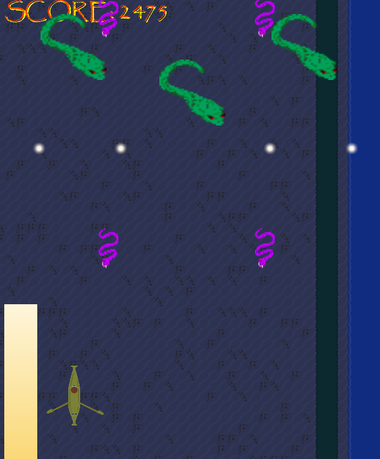
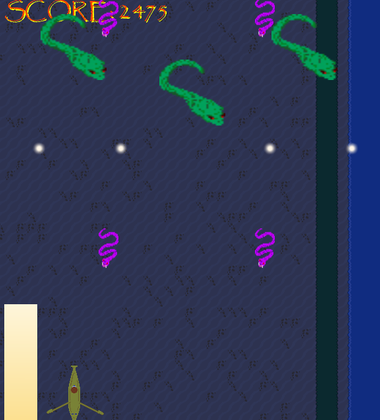
Home page mostly finalized in design, confirmed with client

diff --git a/index.html b/index.html
@@ -21,42 +21,53 @@
         </header>
 
         <main>
-            <section class="raise-the-rays-background container-fluid intro floatIn">
+            <section class="container-fluid intro raise-the-rays-bkg">
                 <div class="shadow-box-content">
-                    <h1>Hello! I am Annora Streible</h1>
-                    <h4>Student at Rochester Institute of Technology</h4>
-                    <hr class="fade-line"/>
-
-                    <p>
-                        My interests lie in cross-cultural and interactive design, and I hope to pursue 
-                        it as a career at an international company in the future
-                    </p>
+                    <h1>Hi, I am Annora Streible</h1>
+                    <hr class="fade-line-white"/>
+                    <p class="subheader">Student at Rochester Institute of Technology</p>
                 </div>
             </section>
 
-            <section class="container-fluid floatIn">
-                <h2>Featured Projects</h2>
+            <section class="container-fluid sub-container">
+                <img class="rounded-img" src="./assets/images/profileImage.png" alt="Profile picture">
+                <div>
+                    <p>
+                        Hello! My name is Annora Streible and I'm a third year student at Rochester Institute
+                        of Technology. My interests lie in cross-cultural and interactive design, and I hope to pursue 
+                        it as a career at an international company in the future.
+                    </p>
+                    <a class="btn" role="button" href="./about-me">Learn more</a>
+                </div>
+            </section>
 
-                <div class="d-flex center-items">
+            <section class="container-fluid featured">
+                <h2>Featured Projects</h2><br>
+
+                <div class="d-flex center-items floatIn">
                     <feature-box>
                         <span slot="title">Frag: New Heights</span>
-                        <span slot="details">
+                        <img slot="preview-img" src="./assets/images/FragNewHeights/PrintAndPlay.png" alt="A portion of the print and play files of the game, including some game cards and tokens" width="350">
+                        <span slot="details" class="content">
                             <p>
                                 In a team of 2, I worked alongside my partner to design and develop an expansion pack
                                 for the pre-existing game Frag by Steve Jackson Games
                             </p>
-                            <button><a href="./projects#Frag_NewHeights">Learn More</a></button>
+                            <hr class="fade-line-black">
+                            <a class="btn" href="./projects#Frag_NewHeights">Learn More</a>
                         </span>
                     </feature-box>
 
                     <feature-box>
-                        <span slot="title">Raise the Rays</span>
-                        <span slot="details">
+                        <span slot="title">Raise The Rays</span>
+                        <img slot="preview-img" src="./assets/images/toRaiseTheRays/ToRaiseTheRaysExample3.png" alt="To Raise the Rays combat image" width="350">
+                        <span class="content" slot="details">
                             <p>
                                 In a team of 4, I worked as the lead UI designer to design and develop a top-down
                                 shooter in Monogame using C# with a focus on visual design.
                             </p>
-                            <button><a href="./projects#RaiseTheRays">Learn more</a></button>
+                            <hr class="fade-line-black">
+                            <a class="btn" href="./projects#RaiseTheRays">Learn more</a>
                         </span>
                     </feature-box>
                 </div>

diff --git a/css/styles.css b/css/styles.css
@@ -5,8 +5,8 @@ body {
     display: flex;
     flex-direction: column;
     min-height: 100vh;
-    background-color: black;
-    color: lightgray;
+    background-color: lightgray;
+    color: black;
     font-family: 'Poppins';
 }
 
@@ -30,23 +30,14 @@ footer {
     }
 }
 
-/** Create a padded container with centered content */
-.container-fluid {
-    padding: 1em;
-    text-align: center;
-}
-
-.raise-the-rays-background {
-    background-image: url('../assets/images/toRaiseTheRays/ToRaiseTheRaysExample3.png');
+.raise-the-rays-bkg {
+    background-image: url('../assets/images/toRaiseTheRays/Title_Day.png');
     background-size: cover;
+    background-position: center center;
     background-attachment: fixed;
-    height: 500px;
-    display: flex;
-    justify-content: center;
-    align-items: center;
 }
 
-.raise-the-rays-background::after {
+.raise-the-rays-bkg::after {
     content: '';
     position: absolute;
     top: 0;
@@ -54,33 +45,53 @@ footer {
     right: 0;
     left: 0;
     z-index: 1;
-    background-color: rgba(0, 0, 0, 0.5);
+    background-image: linear-gradient(to bottom, rgb(48, 48, 48), black);
+    opacity: 0.8;
 }
 
-.shadow-box-content {
+/** Create a padded container with centered content */
+.container-fluid {
+    padding: 1em;
+    text-align: center;
+}
+
+.intro {
+    height: 500px;
+    display: flex;
+    justify-content: center;
+    align-items: center;
     position: relative;
+    color: white;
     z-index: 2;
 }
 
 .center-items {
     justify-content: center;
-    gap: 15px;
+    gap: 2em;
 }
 
 /** Style heading tags */
 h1 {
     text-align: center;
     font-weight: bold;
+    font-size: 48px;
 }
 
 h2 {
     text-align: center;
-
+    font-size: 36px;
+    font-weight: bold;
+    margin-top: 1em;
 }
 
-h4 {
+.subheader {
+    font-size: 24px;
     text-align: center;
     font-weight: semi-bold;
+}
+
+.content p {
+    font-size: 14px;
 }
 
 /** Sets text aligned to the center */
@@ -98,11 +109,18 @@ h4 {
     }
 
 /** Create a tapered horizontal line */
-.fade-line {
+.fade-line-white {
     border: 0;
     height: 2px;
     opacity: 1;
     background-image: linear-gradient(to right, transparent, rgba(255, 255, 255, 0.75), transparent);
+}
+
+.fade-line-black {
+    border: 0;
+    height: 2px;
+    opacity: 1;
+    background-image: linear-gradient(to right, transparent, rgba(0, 0, 0, 0.75), transparent);
 }
 
 /** Styles the socials icons */
@@ -121,8 +139,44 @@ path {
     animation: floatIn 0.8s ease-out forwards;
 }
 
-.intro {
-    padding: 50px 25px;
-    justify-content: center;
+.rounded-img {
+    width: 200px;
+    clip-path: circle();
+}
+
+.sub-container {
+    display: flex;
+    flex-direction: row;
+    padding: 3em 4em;
+    gap: 2em;
+    display: flex;
     align-items: center;
+    text-align: left !important;
+    background-color: darkgray;
+    z-index: 2;
+}
+
+.shadow-box-content {
+    z-index: 2;
+}
+
+.btn {
+    background-color: darkred;
+    color: lightgray;
+    box-shadow: 0 4px 12px rgba(0,0,0,0.25);
+    margin-bottom: 15px;
+}
+    .btn:hover {
+        background-color: rgb(106, 0, 0);
+        color: white;
+    }
+
+[slot="preview-img"] {
+    border-radius: 0 0 5px 5px;
+}
+
+@media (max-width: 768px) {
+    .sub-container{ flex-direction: column;}
+    .center-items{flex-direction: column;}
+    [slot="preview-img"] { width: 340px; }
 }

diff --git a/web-components/feature-box/feature-box.css b/web-components/feature-box/feature-box.css
@@ -1,33 +1,32 @@
 /** Private styles for the feature-box element */
 
-.feature {
-    animation: floatUp 0.8s ease-out forwards; 
-    border: 2px black solid;
-    border-radius: 4px;
+.feature { 
+    background-color: darkgray;
+    border-radius: 5px;
     box-shadow: inset;
     width: 350px;
     height: fit-content;
     justify-content: center;
+    transition: transform 0.2s ease-in-out, box-shadow 0.2s ease-in-out;
 }
     .feature:hover {
-        transform: translateY(-4px);
+        transform: scale(1.03);
         box-shadow: 0 4px 12px rgba(0,0,0,0.25);
         transition: all 0.2s ease-in-out;
     }
 
-.title {
-    display: flex;
-    justify-content: space-between;
-    align-items: center;
-    justify-content: center;
-    padding: 10px;
-    height: 20px;
-}
-
 .content {
     padding: 10px 25px;
+    padding-bottom: 0;
+}
+
+h3 {
+    text-align: center;
+    font-size: 24px;
+    margin: 0;
+    padding-top: 15px;
 }
 
 @media(max-width: 450px) {
-    .feature { width: 275px; }
+    .feature { width: 340px; }
 }

diff --git a/web-components/foot-note/foot-note.js b/web-components/foot-note/foot-note.js
@@ -18,14 +18,10 @@ class FootNote extends HTMLElement {
         this.innerHTML = `
             <link rel="stylesheet" href="./web-components/foot-note/foot-note.css">
             <div class="footnotes">
-                <div class="title">
-                    <h2>Annora Streible</h2>
-                </div>
-                <div class="links">
-                    <a class="social" href="https://www.linkedin.com/in/annora-streible/" target="_blank" rel="noopener noreferrer" title="LinkedIn">
-                        <i class="fa-brands fa-linkedin fa-3x"></i>
-                    </a>
-                </div>
+                <h2>Annora Streible</h2>
+                <a class="social" href="https://www.linkedin.com/in/annora-streible/" target="_blank" rel="noopener noreferrer" title="LinkedIn">
+                    <i class="fa-brands fa-linkedin fa-3x"></i>
+                </a>
             </div>
         `;
     }

diff --git a/web-components/feature-box/feature-box.js b/web-components/feature-box/feature-box.js
@@ -14,14 +14,9 @@ class FeatureBox extends HTMLElement {
             <link rel="stylesheet" href="./web-components/feature-box/feature-box.css">
 
             <div class="feature">
-                <div class="title">
-                    <h3><slot name="title"></slot></h3>
-                </div>
-                
-                <div class="content">
-                    <slot name="preview-img"></slot>
-                    <p><slot name="details"></slot></p>
-                </div>
+                <h3><slot name="title"></slot></h3>
+                <div class="content"><slot name="details"></slot></div>
+                <slot name="preview-img"></slot>
             </div>
         `;
     }

diff --git a/web-components/nav-bar/nav-bar.css b/web-components/nav-bar/nav-bar.css
@@ -2,10 +2,12 @@
 
 /** Style the overall navigation bar */
 .custom-nav {
-    background-color: rgb(35, 10, 10);
+    background-color: black;
     align-items: center;
     border-bottom: 2px black solid;
     box-shadow: 0 4px 12px rgba(0,0,0,0.25);
+    padding: 5px 1em;
+    z-index: 2;
 }
 
 /** Sends all nav-links to the end of the navbar */
@@ -45,9 +47,6 @@
     font-weight: bold;
     transition: color 0.2s ease;
 }
-    .navbar-brand:hover, .navbar-brand:active, .navbar-brand:focus {
-        color: red;
-    }
 
 /** Changes nav-bar display settings for mobile screen */
 @media(max-width: 990px) {

diff --git a/projects.html b/projects.html
@@ -65,7 +65,7 @@
                         mechanics, and to modify visuals as needed in order to enhance the player experience.
                     </p>
 
-                    <button><a href="https://github.com/drowsap/ToRaiseTheRays" target="_blank">View Repository</a></button>
+                    <button><a href="https://github.com/Norrei05/ToRaiseTheRays" target="_blank">View Repository</a></button>
                 </div>
             </section>
         </main>

diff --git a/web-components/foot-note/foot-note.css b/web-components/foot-note/foot-note.css
@@ -4,11 +4,12 @@
 .footnotes {
     display: flex;
     justify-content: space-between;
-    background-color: rgb(35, 10, 10);
-    padding: 25px 45px;
+    background-color: black;
+    padding: 15px 45px;
     align-items: center;
     text-align: left;
     color: lightgray;
+    z-index: 2;
 }
 
 /** Styles heading 2 only within the footnote element */

diff --git a/about-me.html b/about-me.html
@@ -22,6 +22,7 @@
         <main>
             <div class="container-fluid floatIn">
                 <h1>About Me</h1>
+                <img src="./assets/images/profileImage.png" alt="Profile picture" width="250">
 
                 <p>
                     Hello! I am Annora Streible, a third year student pursuing a Bachelor of Science in
